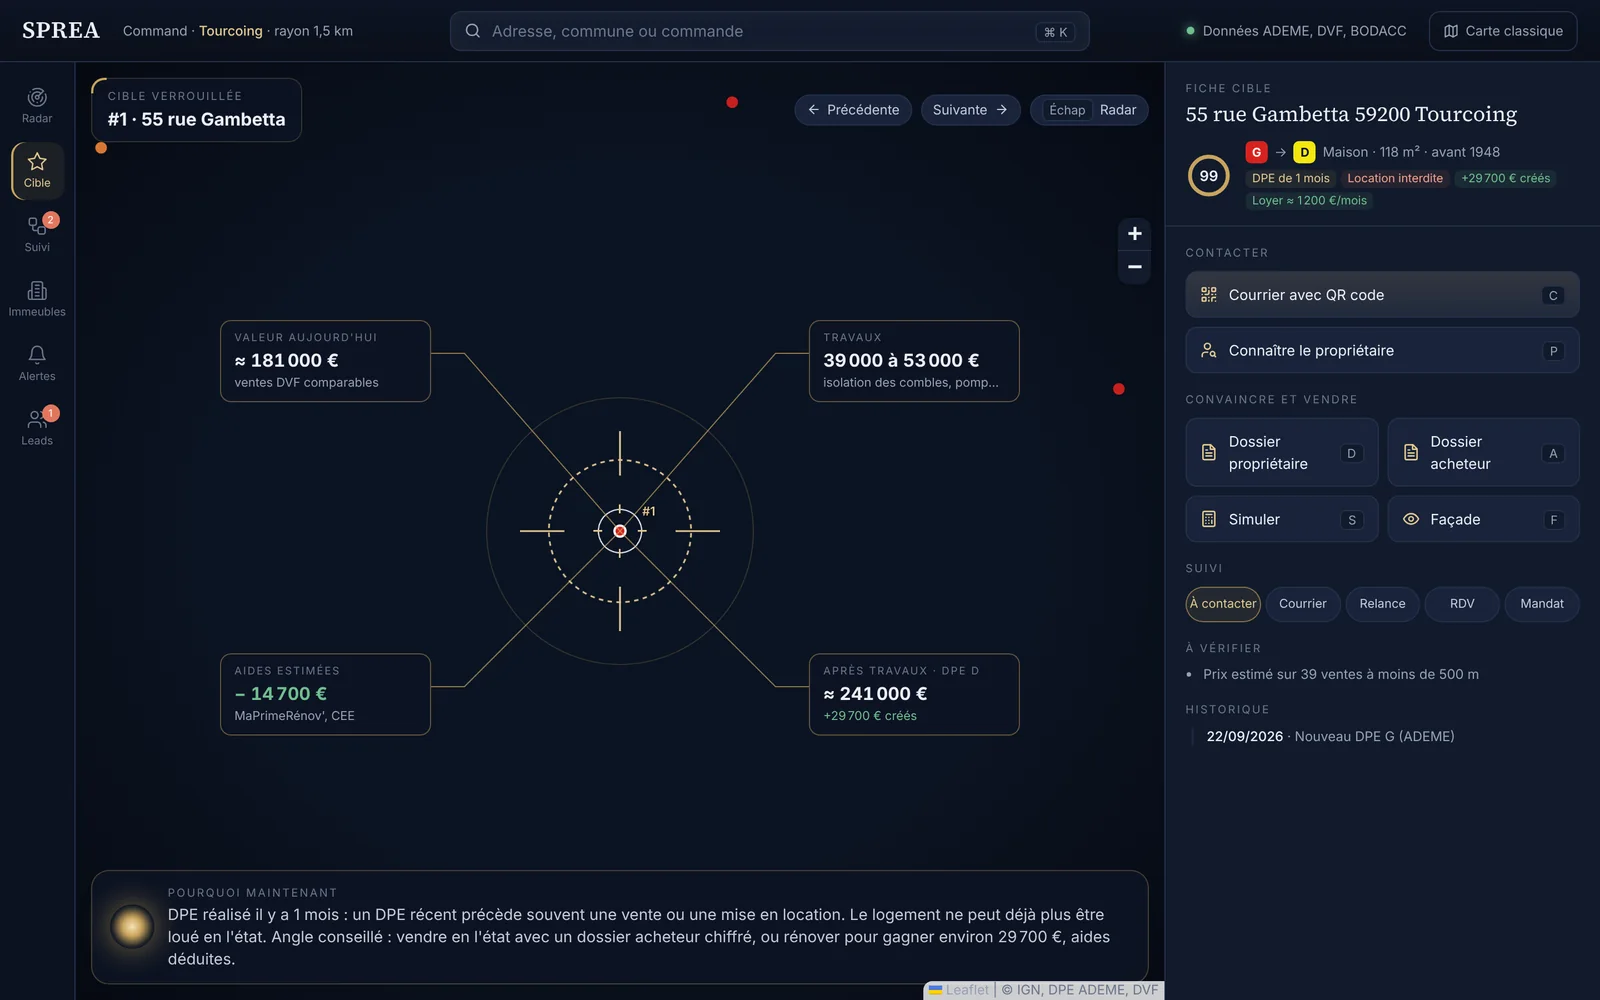
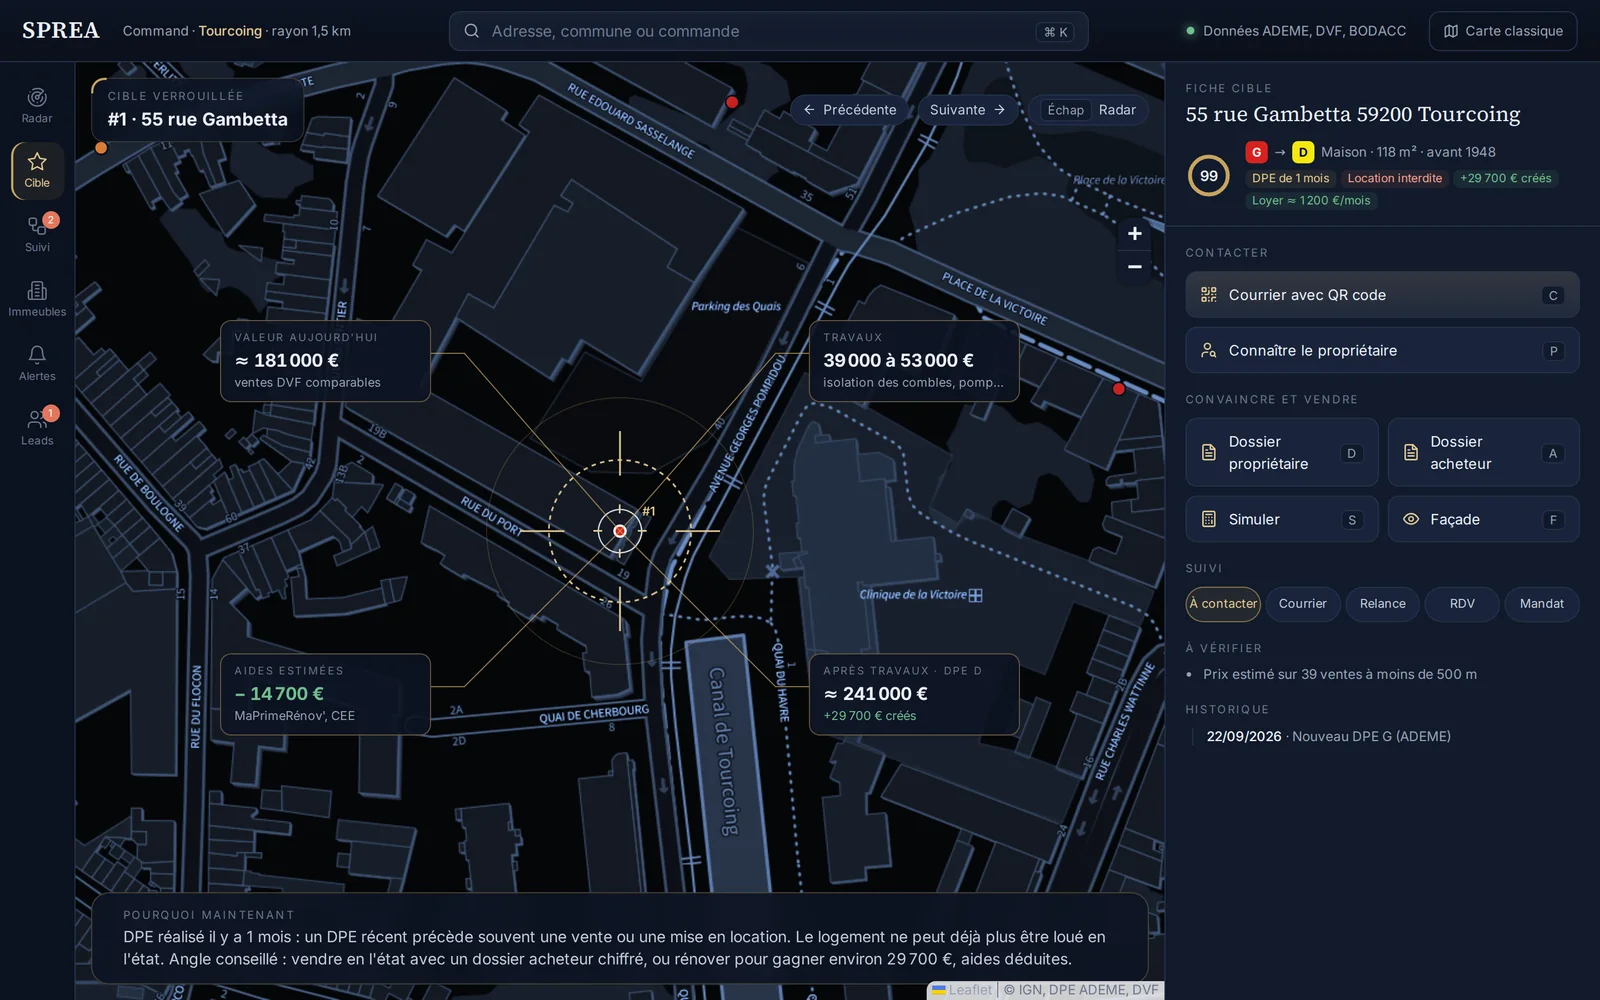
SPREA Command : carte vide corrigée, mise en page téléphone, captures de la démo avec le vrai fond de carte (#79)
* Estimator: email the requests no subscriber covers to SPREA, with every detail

The request goes to LEADS_TO (or QUOTES_TO) when no alert zone covers the address, so it can be passed on to an advisor of the area; both emails now show the range, rooms, DPE, condition and a map link.

Claude-Session: https://claude.ai/code/session_01PuYcbU6gG7VHUTYNwhFE8u

* Prospection: a sequence written for independent advisors

Four emails by first name, with the real price per m2 of their town (the /prix-m2 pages) and a preview line:
1. prospecting without cold calls (consent now required for prospecting calls; letters stay allowed): new DPE each morning, letter with QR code, before / after valuation; demo button, link to the town's prices
2. the owners of their town who ask to be called back (the free estimator routes them to the subscriber of the area); button to the estimator with the town prefilled
3. 79 EUR a month against one commission, 20 minutes on their own streets; button to the pricing
4. last message, the town's prices stay free
Agencies keep their sequence. UTM per email (utm_content=mailN).

Claude-Session: https://claude.ai/code/session_01PuYcbU6gG7VHUTYNwhFE8u

* Advisor email 1: every SPREA feature, in three steps of prospecting (find the sellers, contact them, sign and sell)

Claude-Session: https://claude.ai/code/session_01PuYcbU6gG7VHUTYNwhFE8u

* Bouton « Connaître le propriétaire » : demande L107 A pré-remplie avec la parcelle cadastrale
[…]

diff --git a/src/pages/Command.tsx b/src/pages/Command.tsx
@@ -221,24 +221,31 @@ export default function CommandPage() {
     };
 
     // --- Map ---
-    const mapEl = useRef<HTMLDivElement>(null);
+    // The map's container only exists once the account is known (the page
+    // shows a gate before): the map is created when the container appears
+    const [mapEl, setMapEl] = useState<HTMLDivElement | null>(null);
+    const [mapReady, setMapReady] = useState(false);
+    const centerRef = useRef(center);
+    centerRef.current = center;
     const mapRef = useRef<L.Map | null>(null);
     const layer = useRef<L.LayerGroup | null>(null);
     const [radar, setRadar] = useState<{ x: number; y: number; r: number } | null>(null);
     const [size, setSize] = useState<{ w: number; h: number }>({ w: 0, h: 0 });
 
     useEffect(() => {
-        if (!mapEl.current || mapRef.current || !center) return;
-        const map = L.map(mapEl.current, { zoomControl: false, preferCanvas: false, zoomSnap: 0.25, attributionControl: true })
-            .setView([center.lat, center.lon], 14.5);
+        const start = centerRef.current;
+        if (!mapEl || !start) return;
+        const map = L.map(mapEl, { zoomControl: false, preferCanvas: false, zoomSnap: 0.25, attributionControl: true })
+            .setView([start.lat, start.lon], 14.5);
         L.control.zoom({ position: 'topright' }).addTo(map);
         L.tileLayer(TILES, { maxZoom: 19, minZoom: 6, attribution: '© IGN, DPE ADEME, DVF', className: 'sprea-tiles' }).addTo(map);
         layer.current = L.layerGroup().addTo(map);
         mapRef.current = map;
-        const ro = new ResizeObserver(() => { map.invalidateSize(); setSize({ w: mapEl.current!.clientWidth, h: mapEl.current!.clientHeight }); });
-        ro.observe(mapEl.current);
-        return () => { ro.disconnect(); map.remove(); mapRef.current = null; };
-    }, [center]);
+        setMapReady(true);
+        const ro = new ResizeObserver(() => { map.invalidateSize(); setSize({ w: mapEl.clientWidth, h: mapEl.clientHeight }); });
+        ro.observe(mapEl);
+        return () => { ro.disconnect(); map.remove(); mapRef.current = null; layer.current = null; setMapReady(false); };
+    }, [mapEl, !!center]); // eslint-disable-line react-hooks/exhaustive-deps
 
     // Radar rings follow the scanned circle on screen
     useEffect(() => {
@@ -253,7 +260,7 @@ export default function CommandPage() {
         place();
         map.on('move zoom resize', place);
         return () => { map.off('move zoom resize', place); };
-    }, [center]);
+    }, [center, mapReady]);
 
     const focus = useCallback((o: Opportunity) => {
         setSelected(o.number);
@@ -295,7 +302,7 @@ export default function CommandPage() {
                 .bindTooltip(`Demande d'estimation · ${esc(l.name)}`).addTo(group);
         }
         // eslint-disable-next-line react-hooks/exhaustive-deps
-    }, [ranked, selected, leads, focus]);
+    }, [ranked, selected, leads, focus, mapReady]);
 
     // --- Command bar ---
     const [query, setQuery] = useState('');
@@ -470,8 +477,8 @@ export default function CommandPage() {
                 </nav>
 
                 {/* Main */}
-                <section className="relative flex-1 min-h-[52vh] lg:min-h-0 overflow-hidden">
-                    <div ref={mapEl} className={`sprea-map cmd-map absolute inset-0 ${view === 'suivi' ? 'invisible' : ''}`} />
+                <section className="relative flex-1 min-h-0 overflow-hidden">
+                    <div ref={setMapEl} className={`sprea-map cmd-map absolute inset-0 ${view === 'suivi' ? 'invisible' : ''}`} />
                     {view !== 'suivi' && <div className="absolute inset-0 pointer-events-none cmd-vignette" />}
 
                     {view === 'radar' && radar && radar.r > 20 && (
@@ -495,11 +502,11 @@ export default function CommandPage() {
                     {/* Radar HUD */}
                     {view === 'radar' && (
                         <>
-                            <div className="absolute top-3.5 left-3.5 right-3.5 z-[500] grid grid-cols-2 sm:grid-cols-3 xl:grid-cols-5 gap-2.5 pointer-events-none">
+                            <div className="absolute top-2.5 sm:top-3.5 left-2.5 sm:left-3.5 right-14 sm:right-3.5 z-[500] grid grid-cols-2 sm:grid-cols-3 xl:grid-cols-5 gap-2 sm:gap-2.5 pointer-events-none">
                                 <Kpi label="Nouveaux DPE · 7 j" value={kpis.newDpe} sub="classés E, F ou G" />
                                 <Kpi label="Biens à fort potentiel" value={scan ? scan.positive : null} sub={scan ? `sur ${scan.analysed} analysés` : 'analyse en cours'} loading={scanning} />
-                                <Kpi label="Valeur à débloquer" value={scan ? (unlocked >= 1e6 ? `${(unlocked / 1e6).toLocaleString('fr-FR', { maximumFractionDigits: 1 })} M€` : `${Math.round(unlocked / 1000)} k€`) : null} sub="par la rénovation" loading={scanning} />
-                                <Kpi label="Signaux de vente SCI" value={kpis.signals} sub={kpis.strongSignals ? `${kpis.strongSignals} fort${kpis.strongSignals > 1 ? 's' : ''}` : 'BODACC'} tone={kpis.signals ? 'coral' : undefined} />
+                                <Kpi label="Valeur à débloquer" value={scan ? (unlocked >= 1e6 ? `${(unlocked / 1e6).toLocaleString('fr-FR', { maximumFractionDigits: 1 })} M€` : `${Math.round(unlocked / 1000)} k€`) : null} sub="par la rénovation" loading={scanning} className="hidden sm:block" />
+                                <Kpi label="Signaux de vente SCI" value={kpis.signals} sub={kpis.strongSignals ? `${kpis.strongSignals} fort${kpis.strongSignals > 1 ? 's' : ''}` : 'BODACC'} tone={kpis.signals ? 'coral' : undefined} className="hidden sm:block" />
                                 <Kpi label="Demandes vendeurs" value={newLeads.length} sub="via l'estimateur" tone={newLeads.length ? 'sage' : undefined} className="hidden xl:block" />
                             </div>
                             {moved && center && (
@@ -508,7 +515,7 @@ export default function CommandPage() {
                                     Scanner ce secteur
                                 </button>
                             )}
-                            <div className="absolute left-3.5 right-3.5 bottom-3.5 z-[500] flex flex-col items-start gap-2.5">
+                            <div className="absolute left-2.5 sm:left-3.5 right-2.5 sm:right-3.5 bottom-2.5 sm:bottom-3.5 z-[500] flex flex-col items-start gap-2.5">
                             <div className="hidden sm:block w-[330px] rounded-xl border border-line bg-[#0D1424]/85 backdrop-blur px-3 py-2.5">
                                 <p className="text-[10px] tracking-[0.16em] uppercase text-faint">Votre pipeline</p>
                                 <div className="mt-1.5 flex gap-1">
@@ -521,11 +528,11 @@ export default function CommandPage() {
                                     ))}
                                 </div>
                             </div>
-                            <div className="self-stretch rounded-2xl border border-brass/30 bg-[#0D1424]/90 backdrop-blur px-4 py-3 flex flex-col md:flex-row md:items-center gap-3">
-                                <Orb />
+                            <div className="self-stretch rounded-2xl border border-brass/30 bg-[#0D1424]/90 backdrop-blur px-3.5 sm:px-4 py-2.5 sm:py-3 flex flex-col md:flex-row md:items-center gap-2 sm:gap-3">
+                                <span className="hidden md:block"><Orb /></span>
                                 <div className="flex-1 min-w-0">
                                     <p className="text-[10px] tracking-[0.16em] uppercase text-faint">Briefing</p>
-                                    <p className="mt-0.5 text-sm text-ink-soft">
+                                    <p className="mt-0.5 text-[13px] sm:text-sm text-ink-soft line-clamp-3 md:line-clamp-none">
                                         {error ? <span className="text-coral">{error}</span>
                                             : scanning ? <>{hello} J'analyse les DPE récents de votre secteur : valeur, travaux, aides et loyer pour chaque logement…</>
                                             : scan && top ? <>{hello} {kpis.newDpe != null && <><b className="text-ink">{kpis.newDpe} nouveau{kpis.newDpe > 1 ? 'x' : ''} DPE</b> E, F ou G dans votre zone ces 7 derniers jours. </>}
@@ -537,8 +544,8 @@ export default function CommandPage() {
                                 </div>
                                 <div className="flex flex-wrap gap-2 md:max-w-[46%] md:justify-end">
                                     {top && <Chip gold onClick={() => focus(top)}>Ouvrir la cible #1</Chip>}
-                                    {due.length > 0 && <Chip onClick={() => setView('suivi')}>Voir les {due.length} relance{due.length > 1 ? 's' : ''}</Chip>}
-                                    {top && <Chip onClick={() => setLetterFor({ address: top.address, label: top.label, dpeNumber: top.number })}>Courrier à la cible #1</Chip>}
+                                    {due.length > 0 && <Chip className="hidden sm:inline-flex" onClick={() => setView('suivi')}>Voir les {due.length} relance{due.length > 1 ? 's' : ''}</Chip>}
+                                    {top && <Chip className="hidden sm:inline-flex" onClick={() => setLetterFor({ address: top.address, label: top.label, dpeNumber: top.number })}>Courrier à la cible #1</Chip>}
                                 </div>
                             </div>
                             </div>
@@ -557,9 +564,9 @@ export default function CommandPage() {
                                     <Chip onClick={backToRadar}><Kbd>Échap</Kbd>Radar</Chip>
                                 </div>
                             </div>
-                            <div className="absolute left-3.5 right-3.5 bottom-3.5 z-[500] rounded-2xl border border-brass/30 bg-[#0D1424]/90 backdrop-blur px-4 py-3 flex items-center gap-3">
-                                <Orb />
-                                <div><p className="text-[10px] tracking-[0.16em] uppercase text-faint">Pourquoi maintenant</p><p className="mt-0.5 text-sm text-ink-soft">{why(current.o)}</p></div>
+                            <div className="absolute left-2.5 sm:left-3.5 right-2.5 sm:right-3.5 bottom-2.5 sm:bottom-3.5 z-[500] rounded-2xl border border-brass/30 bg-[#0D1424]/90 backdrop-blur px-3.5 sm:px-4 py-2.5 sm:py-3 flex items-center gap-3">
+                                <span className="hidden md:block"><Orb /></span>
+                                <div><p className="text-[10px] tracking-[0.16em] uppercase text-faint">Pourquoi maintenant</p><p className="mt-0.5 text-[13px] sm:text-sm text-ink-soft line-clamp-3 md:line-clamp-none">{why(current.o)}</p></div>
                             </div>
                         </>
                     )}
@@ -601,7 +608,7 @@ export default function CommandPage() {
                 </section>
 
                 {/* Side panel */}
-                <aside className="lg:w-[392px] shrink-0 max-h-[48vh] lg:max-h-none border-b lg:border-b-0 lg:border-l border-line bg-panel flex flex-col min-h-0">
+                <aside className="lg:w-[392px] shrink-0 max-h-[38vh] lg:max-h-none border-b lg:border-b-0 lg:border-l border-line bg-panel flex flex-col min-h-0">
                     {view === 'radar' && (
                         <>
                             <div className="px-[18px] pt-4 pb-3 border-b border-line">
@@ -666,10 +673,10 @@ function Kpi({ label, value, sub, tone, loading, className = '' }: { label: stri
     );
 }
 
-function Chip({ children, gold, onClick }: { children: React.ReactNode; gold?: boolean; onClick?: () => void }) {
+function Chip({ children, gold, onClick, className = '' }: { children: React.ReactNode; gold?: boolean; onClick?: () => void; className?: string }) {
     return (
         <button type="button" onClick={onClick}
-            className={`h-7 inline-flex items-center gap-1.5 rounded-full border px-2.5 text-xs whitespace-nowrap transition-colors ${gold ? 'border-brass/60 text-brass-light bg-brass/10' : 'border-line text-ink-soft bg-raised hover:border-brass/40'}`}>
+            className={`h-7 inline-flex items-center gap-1.5 rounded-full border px-2.5 text-xs whitespace-nowrap transition-colors ${className} ${gold ? 'border-brass/60 text-brass-light bg-brass/10' : 'border-line text-ink-soft bg-raised hover:border-brass/40'}`}>
             {children}
         </button>
     );
@@ -677,7 +684,14 @@ function Chip({ children, gold, onClick }: { children: React.ReactNode; gold?: b
 
 function TargetRow({ o, score, on, status, onHover, onOpen }: { o: Opportunity; score: number; on: boolean; status?: FollowUp; onHover: () => void; onOpen: () => void }) {
     const ref = useRef<HTMLLIElement>(null);
-    useEffect(() => { if (on) ref.current?.scrollIntoView({ block: 'nearest' }); }, [on]);
+    // Only the list scrolls (scrollIntoView would also move the fixed-height page)
+    useEffect(() => {
+        const el = ref.current, list = el?.parentElement;
+        if (!on || !el || !list) return;
+        const top = el.offsetTop - list.offsetTop;
+        if (top < list.scrollTop) list.scrollTop = top;
+        else if (top + el.offsetHeight > list.scrollTop + list.clientHeight) list.scrollTop = top + el.offsetHeight - list.clientHeight;
+    }, [on]);
     return (
         <li ref={ref}>
             <button type="button" onClick={onOpen} onMouseEnter={onHover}
